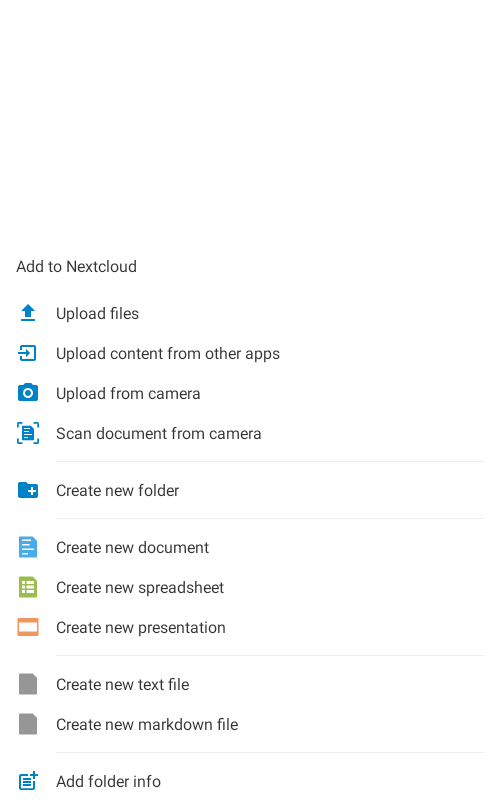
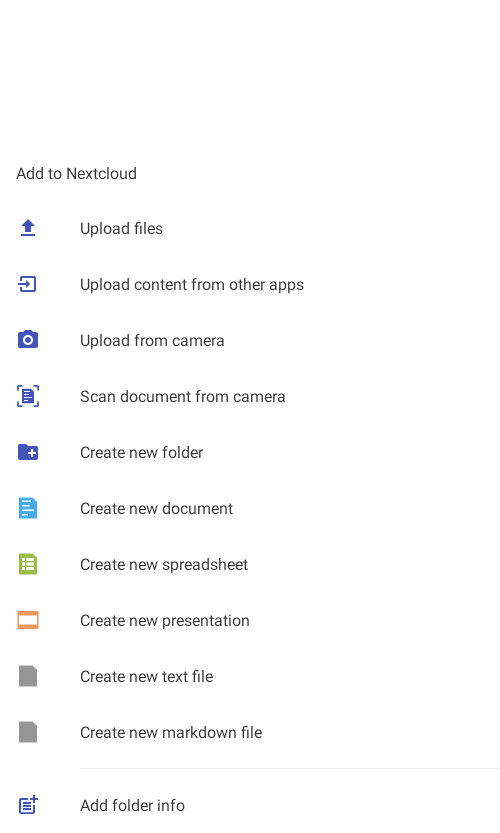
DialogFragmentIT: expand bottomsheet before taking screenshot, and update screenshot

diff --git a/app/src/androidTest/java/com/owncloud/android/ui/dialog/DialogFragmentIT.java b/app/src/androidTest/java/com/owncloud/android/ui/dialog/DialogFragmentIT.java
@@ -30,6 +30,8 @@ import android.view.View;
 import android.view.ViewGroup;
 import android.widget.TextView;
 
+import com.google.android.material.bottomsheet.BottomSheetBehavior;
+import com.google.android.material.bottomsheet.BottomSheetDialog;
 import com.google.gson.Gson;
 import com.nextcloud.android.lib.resources.profile.Action;
 import com.nextcloud.android.lib.resources.profile.HoverCard;
@@ -57,6 +59,7 @@ import com.owncloud.android.lib.resources.users.Status;
 import com.owncloud.android.lib.resources.users.StatusType;
 import com.owncloud.android.ui.activity.FileDisplayActivity;
 import com.owncloud.android.ui.fragment.OCFileListBottomSheetActions;
+import com.owncloud.android.ui.fragment.OCFileListBottomSheetDialog;
 import com.owncloud.android.ui.fragment.OCFileListBottomSheetDialogFragment;
 import com.owncloud.android.ui.fragment.ProfileBottomSheetDialog;
 import com.owncloud.android.utils.MimeTypeUtil;
@@ -402,7 +405,21 @@ public class DialogFragmentIT extends AbstractIT {
                                                                                   user,
                                                                                   ocFile);
 
-        showDialog(fda, sut);
+        sut.show(fda.getSupportFragmentManager(), "");
+
+        getInstrumentation().waitForIdleSync();
+        shortSleep();
+
+        ((BottomSheetDialog) sut.requireDialog()).getBehavior().setState(BottomSheetBehavior.STATE_EXPANDED);
+
+        getInstrumentation().waitForIdleSync();
+        shortSleep();
+
+        ViewGroup viewGroup = sut.requireDialog().getWindow().findViewById(android.R.id.content);
+        hideCursors(viewGroup);
+
+        screenshot(Objects.requireNonNull(sut.requireDialog().getWindow()).getDecorView());
+
     }
 
     @Test

diff --git a/app/src/main/java/com/owncloud/android/ui/fragment/OCFileListBottomSheetDialog.java b/app/src/main/java/com/owncloud/android/ui/fragment/OCFileListBottomSheetDialog.java
@@ -23,7 +23,6 @@ package com.owncloud.android.ui.fragment;
 import android.os.Bundle;
 import android.view.View;
 
-import com.google.android.material.bottomsheet.BottomSheetBehavior;
 import com.google.android.material.bottomsheet.BottomSheetDialog;
 import com.google.gson.Gson;
 import com.nextcloud.client.account.User;
@@ -164,8 +163,6 @@ public class OCFileListBottomSheetDialog extends BottomSheetDialog implements In
         }
 
         setupClickListener();
-
-        setOnShowListener(d -> getBehavior().setState(BottomSheetBehavior.STATE_COLLAPSED));
     }
 
     private void setupClickListener() {
